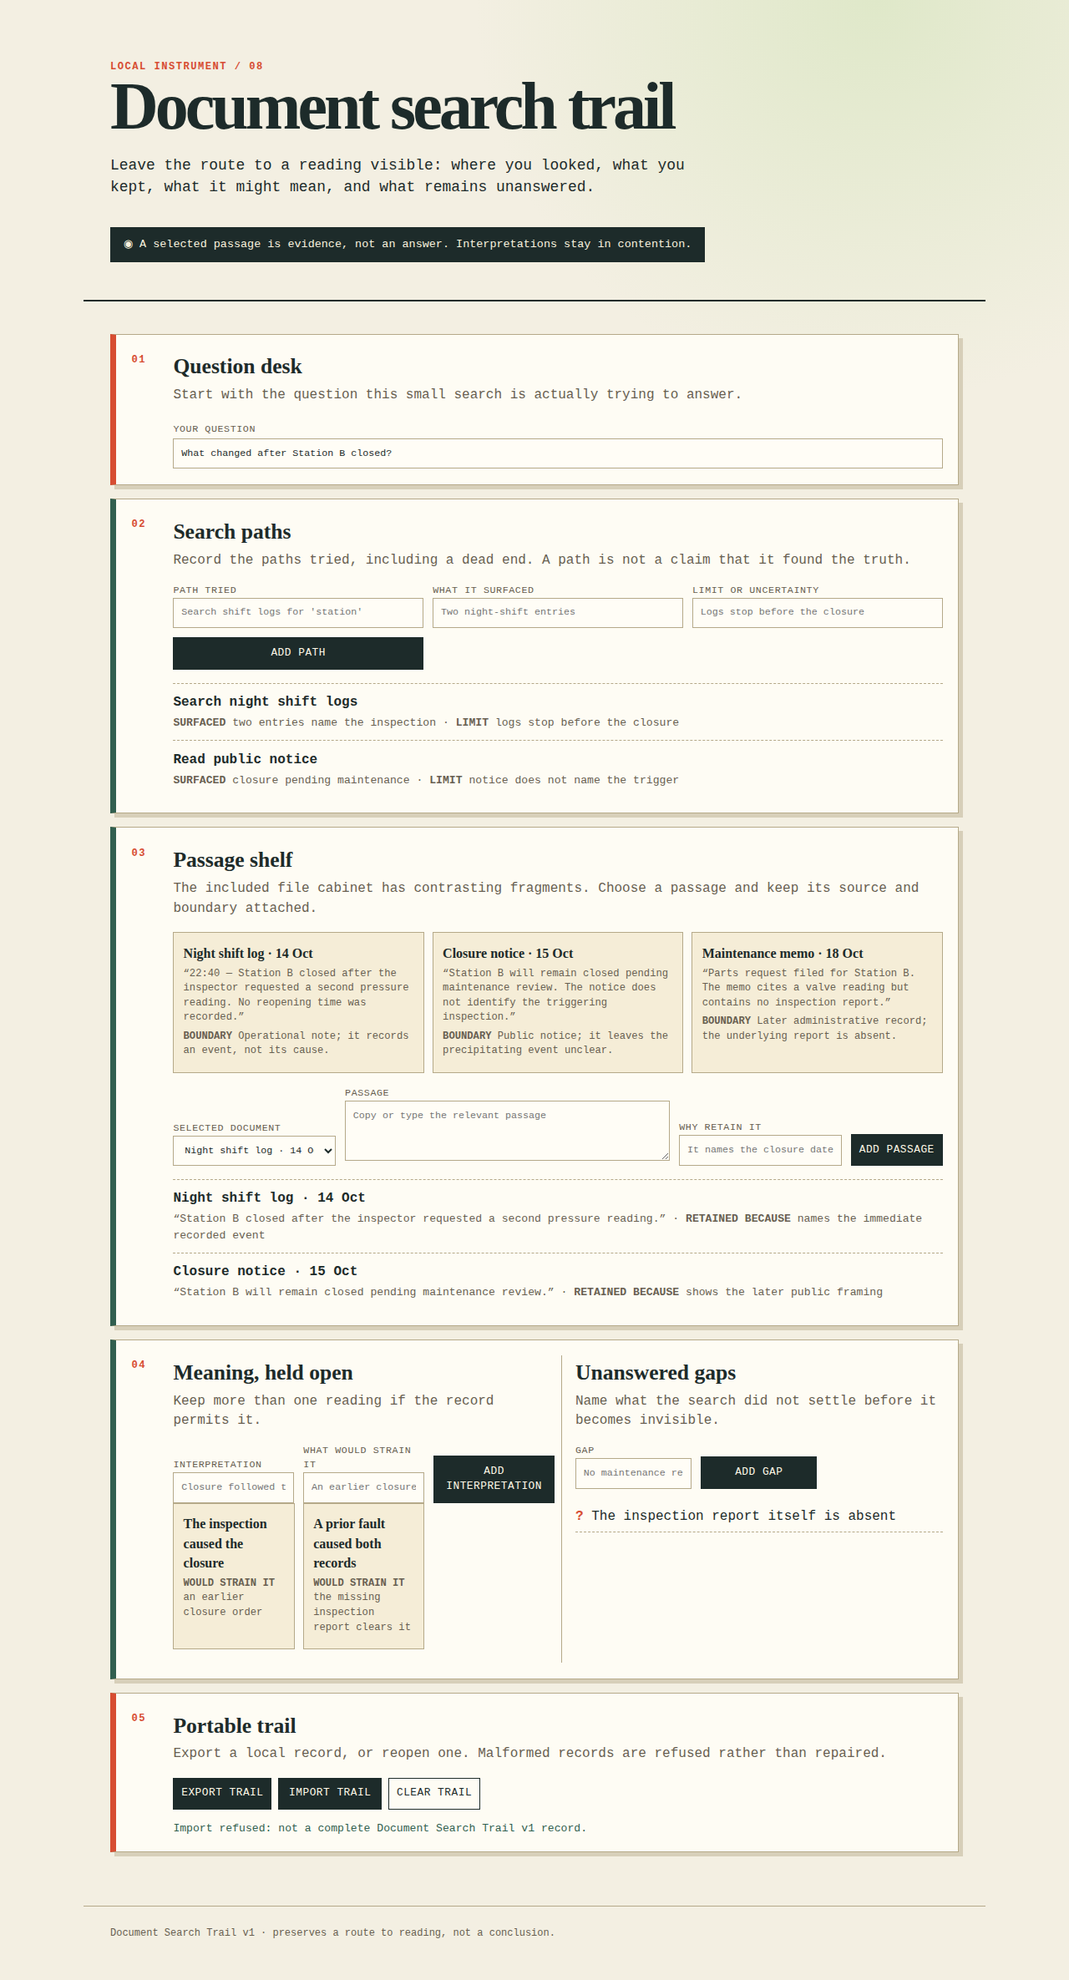
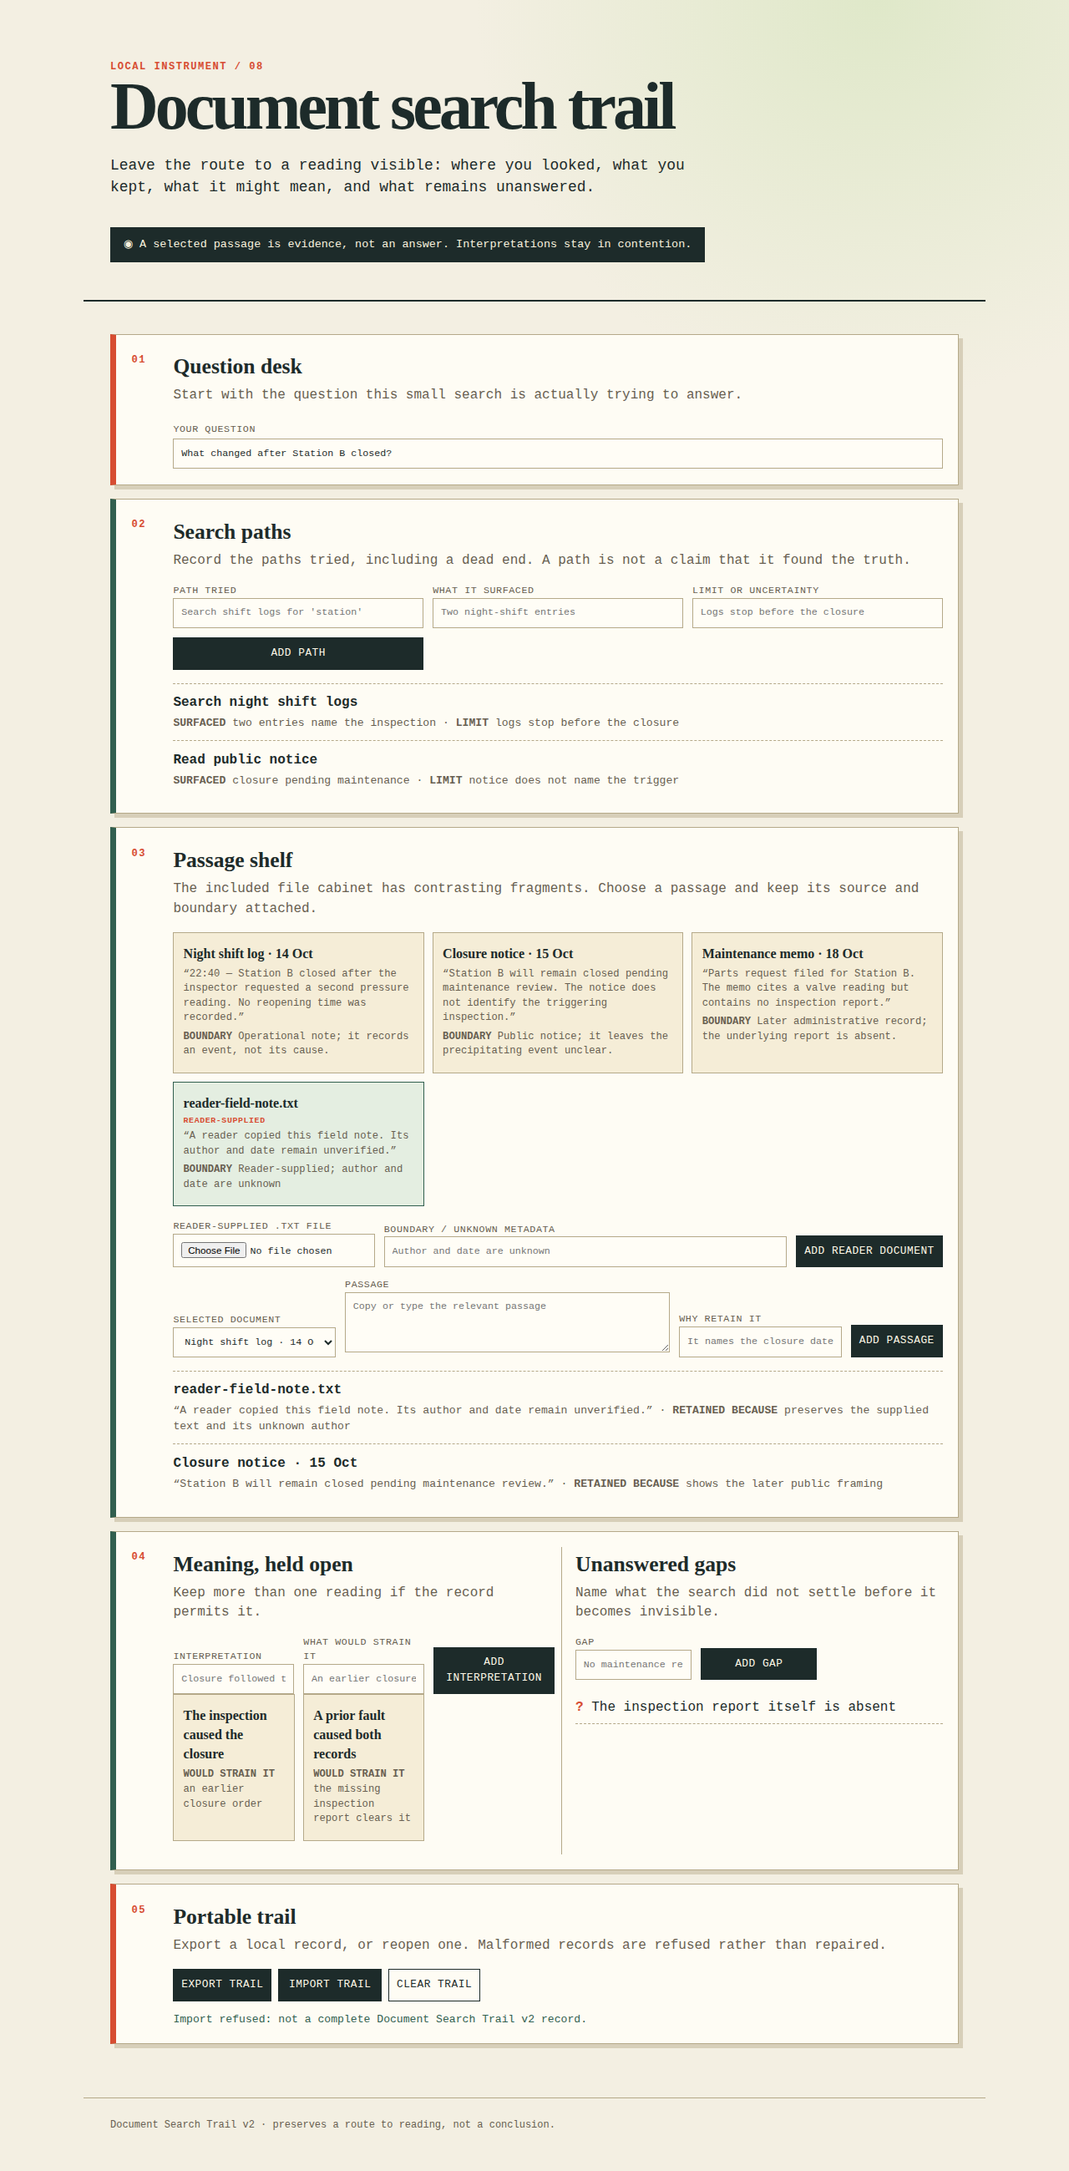
Support reader-supplied search documents

Changed region(s): [[0.0938, 0.0312, 0.9062, 0.9987]]

diff --git a/document-search-trail/app.js b/document-search-trail/app.js
@@ -1,6 +1,6 @@
-const docs=[{id:'shift-log',title:'Night shift log · 14 Oct',text:'22:40 — Station B closed after the inspector requested a second pressure reading. No reopening time was recorded.',note:'Operational note; it records an event, not its cause.'},{id:'notice',title:'Closure notice · 15 Oct',text:'Station B will remain closed pending maintenance review. The notice does not identify the triggering inspection.',note:'Public notice; it leaves the precipitating event unclear.'},{id:'memo',title:'Maintenance memo · 18 Oct',text:'Parts request filed for Station B. The memo cites a valve reading but contains no inspection report.',note:'Later administrative record; the underlying report is absent.'}];
-const state={question:'',paths:[],passages:[],interpretations:[],gaps:[]};const $=s=>document.querySelector(s);const esc=x=>String(x).replace(/[&<>'"]/g,c=>({'&':'&amp;','<':'&lt;','>':'&gt;',"'":'&#39;','"':'&quot;'}[c]));const val=id=>$(id).value.trim();
-function render(){ $('#question').value=state.question;$('#documents').innerHTML=docs.map(d=>`<article class="document"><h3>${esc(d.title)}</h3><p>“${esc(d.text)}”</p><p><b>BOUNDARY</b> ${esc(d.note)}</p></article>`).join('');$('#passage-doc').innerHTML=docs.map(d=>`<option value="${d.id}">${esc(d.title)}</option>`).join('');$('#paths').innerHTML=state.paths.map(x=>`<li><span class="record-title">${esc(x.name)}</span><div class="record-detail"><b>SURFACED</b> ${esc(x.result)} · <b>LIMIT</b> ${esc(x.limit)}</div></li>`).join('');$('#passages').innerHTML=state.passages.map(x=>`<li><span class="record-title">${esc(docs.find(d=>d.id===x.doc)?.title||x.doc)}</span><div class="record-detail">“${esc(x.text)}” · <b>RETAINED BECAUSE</b> ${esc(x.note)}</div></li>`).join('');$('#interpretations').innerHTML=state.interpretations.map(x=>`<article><h3>${esc(x.reading)}</h3><p><b>WOULD STRAIN IT</b><br>${esc(x.strain)}</p></article>`).join('');$('#gaps').innerHTML=state.gaps.map(x=>`<li>${esc(x)}</li>`).join('');}
-function submit(form,fn){$(form).addEventListener('submit',e=>{e.preventDefault();fn();e.target.reset();render();$('#status').textContent='Recorded locally; no conclusion was selected.'})}$('#question').addEventListener('input',e=>state.question=e.target.value);submit('#path-form',()=>state.paths.push({name:val('#path-name'),result:val('#path-result'),limit:val('#path-limit')}));submit('#passage-form',()=>state.passages.push({doc:val('#passage-doc'),text:val('#passage-text'),note:val('#passage-note')}));submit('#interpretation-form',()=>state.interpretations.push({reading:val('#interpretation'),strain:val('#strain')}));submit('#gap-form',()=>state.gaps.push(val('#gap')));
-function valid(r){return r&&r.format==='document-search-trail/v1'&&typeof r.question==='string'&&['paths','passages','interpretations','gaps'].every(k=>Array.isArray(r[k]))&&r.paths.every(x=>typeof x.name==='string'&&typeof x.result==='string'&&typeof x.limit==='string')&&r.passages.every(x=>docs.some(d=>d.id===x.doc)&&typeof x.text==='string'&&typeof x.note==='string')&&r.interpretations.every(x=>typeof x.reading==='string'&&typeof x.strain==='string')&&r.gaps.every(x=>typeof x==='string')}
-$('#export').onclick=()=>{state.question=val('#question');const data={format:'document-search-trail/v1',exportedAt:new Date().toISOString(),boundary:'A selected passage is evidence, not an answer. Interpretations stay in contention.',...state};const a=Object.assign(document.createElement('a'),{href:URL.createObjectURL(new Blob([JSON.stringify(data,null,2)],{type:'application/json'})),download:'document-search-trail.json'});a.click();URL.revokeObjectURL(a.href);$('#status').textContent='Trail exported as a portable local JSON record.'};$('#import').onchange=async e=>{try{const r=JSON.parse(await e.target.files[0].text());if(!valid(r))throw Error('not a complete Document Search Trail v1 record');Object.assign(state,r);render();$('#status').textContent='Trail reopened; passages, uncertainty, and gaps remain distinct.'}catch(err){$('#status').textContent=`Import refused: ${err.message}.`}finally{e.target.value=''}};$('#reset').onclick=()=>{Object.assign(state,{question:'',paths:[],passages:[],interpretations:[],gaps:[]});render();$('#status').textContent='Trail cleared locally.'};render();
+const fixtures=[{id:'shift-log',title:'Night shift log · 14 Oct',text:'22:40 — Station B closed after the inspector requested a second pressure reading. No reopening time was recorded.',note:'Operational note; it records an event, not its cause.'},{id:'notice',title:'Closure notice · 15 Oct',text:'Station B will remain closed pending maintenance review. The notice does not identify the triggering inspection.',note:'Public notice; it leaves the precipitating event unclear.'},{id:'memo',title:'Maintenance memo · 18 Oct',text:'Parts request filed for Station B. The memo cites a valve reading but contains no inspection report.',note:'Later administrative record; the underlying report is absent.'}];
+const state={question:'',documents:[],paths:[],passages:[],interpretations:[],gaps:[]};const $=s=>document.querySelector(s),esc=x=>String(x).replace(/[&<>'"]/g,c=>({'&':'&amp;','<':'&lt;','>':'&gt;',"'":'&#39;','"':'&quot;'}[c])),val=id=>$(id).value.trim(),docs=()=>[...fixtures,...state.documents];
+function render(){ $('#question').value=state.question;$('#documents').innerHTML=docs().map(d=>`<article class="document ${d.supplied?'supplied':''}"><h3>${esc(d.title)}${d.supplied?' <small>READER-SUPPLIED</small>':''}</h3><p>“${esc(d.text)}”</p><p><b>BOUNDARY</b> ${esc(d.note)}</p></article>`).join('');$('#passage-doc').innerHTML=docs().map(d=>`<option value="${d.id}">${esc(d.title)}${d.supplied?' · reader-supplied':''}</option>`).join('');$('#paths').innerHTML=state.paths.map(x=>`<li><span class="record-title">${esc(x.name)}</span><div class="record-detail"><b>SURFACED</b> ${esc(x.result)} · <b>LIMIT</b> ${esc(x.limit)}</div></li>`).join('');$('#passages').innerHTML=state.passages.map(x=>`<li><span class="record-title">${esc(docs().find(d=>d.id===x.doc)?.title||x.doc)}</span><div class="record-detail">“${esc(x.text)}” · <b>RETAINED BECAUSE</b> ${esc(x.note)}</div></li>`).join('');$('#interpretations').innerHTML=state.interpretations.map(x=>`<article><h3>${esc(x.reading)}</h3><p><b>WOULD STRAIN IT</b><br>${esc(x.strain)}</p></article>`).join('');$('#gaps').innerHTML=state.gaps.map(x=>`<li>${esc(x)}</li>`).join('');}
+function submit(form,fn){$(form).addEventListener('submit',async e=>{e.preventDefault();try{await fn();e.target.reset();render();$('#status').textContent='Recorded locally; no conclusion was selected.'}catch(err){$('#status').textContent=`Document not added: ${err.message}.`}})}$('#question').addEventListener('input',e=>state.question=e.target.value);submit('#path-form',()=>state.paths.push({name:val('#path-name'),result:val('#path-result'),limit:val('#path-limit')}));submit('#passage-form',()=>state.passages.push({doc:val('#passage-doc'),text:val('#passage-text'),note:val('#passage-note')}));submit('#interpretation-form',()=>state.interpretations.push({reading:val('#interpretation'),strain:val('#strain')}));submit('#gap-form',()=>state.gaps.push(val('#gap')));submit('#document-form',async()=>{const f=$('#document-file').files[0];if(!f||(!f.type.startsWith('text/')&&!/\.txt$/i.test(f.name)))throw Error('choose a plain-text .txt file');const text=await f.text();if(!text.trim())throw Error('the supplied file is empty');state.documents.push({id:`reader-${crypto.randomUUID()}`,title:f.name,text,note:val('#document-boundary'),supplied:true})});
+function valid(r){return r&&r.format==='document-search-trail/v2'&&typeof r.question==='string'&&['documents','paths','passages','interpretations','gaps'].every(k=>Array.isArray(r[k]))&&r.documents.every(x=>typeof x.id==='string'&&typeof x.title==='string'&&typeof x.text==='string'&&typeof x.note==='string'&&x.supplied===true)&&r.paths.every(x=>typeof x.name==='string'&&typeof x.result==='string'&&typeof x.limit==='string')&&r.passages.every(x=>typeof x.doc==='string'&&typeof x.text==='string'&&typeof x.note==='string'&&(docs().some(d=>d.id===x.doc)||r.documents.some(d=>d.id===x.doc)))&&r.interpretations.every(x=>typeof x.reading==='string'&&typeof x.strain==='string')&&r.gaps.every(x=>typeof x==='string')}
+$('#export').onclick=()=>{state.question=val('#question');const data={format:'document-search-trail/v2',exportedAt:new Date().toISOString(),boundary:'A selected passage is evidence, not an answer. Interpretations stay in contention.',...state};const a=Object.assign(document.createElement('a'),{href:URL.createObjectURL(new Blob([JSON.stringify(data,null,2)],{type:'application/json'})),download:'document-search-trail.json'});a.click();URL.revokeObjectURL(a.href);$('#status').textContent='Trail exported as a portable local JSON record.'};$('#import').onchange=async e=>{try{const r=JSON.parse(await e.target.files[0].text());if(!valid(r))throw Error('not a complete Document Search Trail v2 record');Object.assign(state,r);render();$('#status').textContent='Trail reopened; supplied documents, passages, uncertainty, and gaps remain distinct.'}catch(err){$('#status').textContent=`Import refused: ${err.message}.`}finally{e.target.value=''}};$('#reset').onclick=()=>{Object.assign(state,{question:'',documents:[],paths:[],passages:[],interpretations:[],gaps:[]});render();$('#status').textContent='Trail cleared locally.'};render();

diff --git a/document-search-trail/style.css b/document-search-trail/style.css
@@ -1,1 +1,1 @@
-:root{--ink:#1d2b2a;--paper:#f3efe2;--panel:#fffdf5;--line:#b5a989;--acid:#d74d32;--moss:#315f4f;--muted:#685f51}*{box-sizing:border-box}body{margin:0;background:radial-gradient(circle at 82% 0,#dfe8c9,transparent 30rem),var(--paper);color:var(--ink);font:16px/1.45 ui-monospace,SFMono-Regular,Consolas,monospace}header,main,footer{max-width:1080px;margin:auto}header{padding:4.5rem 2rem 2rem;border-bottom:2px solid var(--ink)}.eyebrow,.step{color:var(--acid);font-size:.76rem;font-weight:bold;letter-spacing:.12em}.eyebrow{margin:0}.step{display:block;padding-top:.25rem}h1,h2,h3{font-family:Georgia,serif;margin:.1rem 0;color:var(--ink)}h1{font-size:clamp(2.8rem,7vw,5rem);line-height:.92;letter-spacing:-.05em}.lede{max-width:690px;font-size:1.12rem;margin:1.3rem 0}.boundary{background:var(--ink);color:#f8f2df;padding:.7rem 1rem;display:inline-block;font-size:.84rem}main{padding:1.4rem 2rem 3rem}.panel{background:color-mix(in srgb,var(--panel) 92%,transparent);border:1px solid var(--line);border-left:7px solid var(--moss);margin:1rem 0;padding:1.15rem;display:grid;grid-template-columns:42px 1fr;gap:.5rem;box-shadow:5px 5px 0 #d7cfb9}.question{border-left-color:var(--acid)}h2{font-size:1.6rem}.panel p{margin:.3rem 0 1rem;color:var(--muted)}.form{display:grid;grid-template-columns:repeat(3,minmax(0,1fr));gap:.7rem;align-items:end}label{font-size:.73rem;text-transform:uppercase;letter-spacing:.05em;color:var(--muted)}input,textarea,select,button{width:100%;border:1px solid var(--line);font:inherit;color:var(--ink);background:#fffdf6;padding:.55rem}textarea{min-height:4.5rem;resize:vertical}button,.import{cursor:pointer;background:var(--ink);color:#fff8e7;border-color:var(--ink);font-size:.8rem;text-transform:uppercase;letter-spacing:.04em}.import{display:inline-block;padding:.58rem .8rem}.import input{display:none}.quiet{background:transparent;color:var(--ink)}.records,.gaps{padding:0;margin:1rem 0 0;list-style:none}.records li{border-top:1px dashed var(--line);padding:.7rem 0}.record-title{display:block;font-weight:bold}.record-detail{color:var(--muted);font-size:.82rem;margin-top:.2rem}.documents,.cards{display:grid;grid-template-columns:repeat(3,1fr);gap:.65rem;margin-bottom:1rem}.document,.cards article{padding:.7rem;border:1px solid var(--line);background:#f5edd7;font-size:.78rem}.document h3,.cards h3{font-size:1rem}.document p,.cards p{font-size:.76rem!important;margin:.3rem 0!important}.split{grid-template-columns:42px 1fr 1fr}.split>div+div{border-left:1px solid var(--line);padding-left:1rem}.compact{grid-template-columns:1fr 2fr 1fr auto}.gaps li{padding:.38rem 0;border-bottom:1px dashed var(--line)}.gaps li:before{content:'? ';color:var(--acid);font-weight:bold}.actions{border-left-color:var(--acid)}.buttons{display:flex;gap:.5rem;flex-wrap:wrap}.buttons button{width:auto}output{display:block;margin-top:.8rem;color:var(--moss);font-size:.82rem}footer{border-top:1px solid var(--line);padding:1.5rem 2rem 3rem;font-size:.75rem;color:var(--muted)}@media(max-width:700px){header,main{padding-left:1rem;padding-right:1rem}.form,.compact,.split{grid-template-columns:1fr}.split>div+div{border-left:0;border-top:1px solid var(--line);padding:1rem 0 0}.documents,.cards{grid-template-columns:1fr}.panel{grid-template-columns:28px 1fr}h1{font-size:3rem}}
+:root{--ink:#1d2b2a;--paper:#f3efe2;--panel:#fffdf5;--line:#b5a989;--acid:#d74d32;--moss:#315f4f;--muted:#685f51}*{box-sizing:border-box}body{margin:0;background:radial-gradient(circle at 82% 0,#dfe8c9,transparent 30rem),var(--paper);color:var(--ink);font:16px/1.45 ui-monospace,SFMono-Regular,Consolas,monospace}header,main,footer{max-width:1080px;margin:auto}header{padding:4.5rem 2rem 2rem;border-bottom:2px solid var(--ink)}.eyebrow,.step{color:var(--acid);font-size:.76rem;font-weight:bold;letter-spacing:.12em}.eyebrow{margin:0}.step{display:block;padding-top:.25rem}h1,h2,h3{font-family:Georgia,serif;margin:.1rem 0;color:var(--ink)}h1{font-size:clamp(2.8rem,7vw,5rem);line-height:.92;letter-spacing:-.05em}.lede{max-width:690px;font-size:1.12rem;margin:1.3rem 0}.boundary{background:var(--ink);color:#f8f2df;padding:.7rem 1rem;display:inline-block;font-size:.84rem}main{padding:1.4rem 2rem 3rem}.panel{background:color-mix(in srgb,var(--panel) 92%,transparent);border:1px solid var(--line);border-left:7px solid var(--moss);margin:1rem 0;padding:1.15rem;display:grid;grid-template-columns:42px 1fr;gap:.5rem;box-shadow:5px 5px 0 #d7cfb9}.question{border-left-color:var(--acid)}h2{font-size:1.6rem}.panel p{margin:.3rem 0 1rem;color:var(--muted)}.form{display:grid;grid-template-columns:repeat(3,minmax(0,1fr));gap:.7rem;align-items:end}label{font-size:.73rem;text-transform:uppercase;letter-spacing:.05em;color:var(--muted)}input,textarea,select,button{width:100%;border:1px solid var(--line);font:inherit;color:var(--ink);background:#fffdf6;padding:.55rem}textarea{min-height:4.5rem;resize:vertical}button,.import{cursor:pointer;background:var(--ink);color:#fff8e7;border-color:var(--ink);font-size:.8rem;text-transform:uppercase;letter-spacing:.04em}.import{display:inline-block;padding:.58rem .8rem}.import input{display:none}.quiet{background:transparent;color:var(--ink)}.records,.gaps{padding:0;margin:1rem 0 0;list-style:none}.records li{border-top:1px dashed var(--line);padding:.7rem 0}.record-title{display:block;font-weight:bold}.record-detail{color:var(--muted);font-size:.82rem;margin-top:.2rem}.documents,.cards{display:grid;grid-template-columns:repeat(3,1fr);gap:.65rem;margin-bottom:1rem}.document,.cards article{padding:.7rem;border:1px solid var(--line);background:#f5edd7;font-size:.78rem}.document h3,.cards h3{font-size:1rem}.document small{display:block;color:var(--acid);font:700 .62rem ui-monospace,monospace;letter-spacing:.06em;margin-top:.25rem}.document.supplied{background:#e4eee1;border-color:var(--moss)}.reader-doc{grid-template-columns:1fr 2fr auto;margin:0 0 .8rem}.document p,.cards p{font-size:.76rem!important;margin:.3rem 0!important}.split{grid-template-columns:42px 1fr 1fr}.split>div+div{border-left:1px solid var(--line);padding-left:1rem}.compact{grid-template-columns:1fr 2fr 1fr auto}.gaps li{padding:.38rem 0;border-bottom:1px dashed var(--line)}.gaps li:before{content:'? ';color:var(--acid);font-weight:bold}.actions{border-left-color:var(--acid)}.buttons{display:flex;gap:.5rem;flex-wrap:wrap}.buttons button{width:auto}output{display:block;margin-top:.8rem;color:var(--moss);font-size:.82rem}footer{border-top:1px solid var(--line);padding:1.5rem 2rem 3rem;font-size:.75rem;color:var(--muted)}@media(max-width:700px){header,main{padding-left:1rem;padding-right:1rem}.form,.compact,.split{grid-template-columns:1fr}.split>div+div{border-left:0;border-top:1px solid var(--line);padding:1rem 0 0}.documents,.cards{grid-template-columns:1fr}.panel{grid-template-columns:28px 1fr}h1{font-size:3rem}}

diff --git a/document-search-trail/index.html b/document-search-trail/index.html
@@ -6,7 +6,7 @@
 <main>
 <section class="panel question"><span class="step">01</span><div><h2>Question desk</h2><p>Start with the question this small search is actually trying to answer.</p><label>Your question <input id="question" placeholder="What changed after the station closed?" aria-label="Your question"></label></div></section>
 <section class="panel"><span class="step">02</span><div><h2>Search paths</h2><p>Record the paths tried, including a dead end. A path is not a claim that it found the truth.</p><form id="path-form" class="form"><label>Path tried <input id="path-name" required placeholder="Search shift logs for 'station'"></label><label>What it surfaced <input id="path-result" required placeholder="Two night-shift entries"></label><label>Limit or uncertainty <input id="path-limit" required placeholder="Logs stop before the closure"></label><button>Add path</button></form><ol id="paths" class="records"></ol></div></section>
-<section class="panel"><span class="step">03</span><div><h2>Passage shelf</h2><p>The included file cabinet has contrasting fragments. Choose a passage and keep its source and boundary attached.</p><div id="documents" class="documents"></div><form id="passage-form" class="form compact"><label>Selected document <select id="passage-doc"></select></label><label>Passage <textarea id="passage-text" required placeholder="Copy or type the relevant passage"></textarea></label><label>Why retain it <input id="passage-note" required placeholder="It names the closure date"></label><button>Add passage</button></form><ol id="passages" class="records passages"></ol></div></section>
+<section class="panel"><span class="step">03</span><div><h2>Passage shelf</h2><p>The included file cabinet has contrasting fragments. Choose a passage and keep its source and boundary attached.</p><div id="documents" class="documents"></div><form id="document-form" class="form reader-doc"><label>Reader-supplied .txt file <input id="document-file" type="file" accept="text/plain,.txt" required></label><label>Boundary / unknown metadata <input id="document-boundary" required placeholder="Author and date are unknown"></label><button>Add reader document</button></form><form id="passage-form" class="form compact"><label>Selected document <select id="passage-doc"></select></label><label>Passage <textarea id="passage-text" required placeholder="Copy or type the relevant passage"></textarea></label><label>Why retain it <input id="passage-note" required placeholder="It names the closure date"></label><button>Add passage</button></form><ol id="passages" class="records passages"></ol></div></section>
 <section class="panel split"><span class="step">04</span><div><h2>Meaning, held open</h2><p>Keep more than one reading if the record permits it.</p><form id="interpretation-form" class="form"><label>Interpretation <input id="interpretation" required placeholder="Closure followed the safety inspection"></label><label>What would strain it <input id="strain" required placeholder="An earlier closure notice"></label><button>Add interpretation</button></form><div id="interpretations" class="cards"></div></div><div><h2>Unanswered gaps</h2><p>Name what the search did not settle before it becomes invisible.</p><form id="gap-form" class="form"><label>Gap <input id="gap" required placeholder="No maintenance record after closure"></label><button>Add gap</button></form><ul id="gaps" class="gaps"></ul></div></section>
 <section class="panel actions"><span class="step">05</span><div><h2>Portable trail</h2><p>Export a local record, or reopen one. Malformed records are refused rather than repaired.</p><div class="buttons"><button id="export" type="button">Export trail</button><label class="import">Import trail<input id="import" type="file" accept="application/json"></label><button id="reset" class="quiet" type="button">Clear trail</button></div><output id="status" aria-live="polite"></output></div></section>
-</main><footer>Document Search Trail v1 · preserves a route to reading, not a conclusion.</footer><script src="app.js"></script></body></html>
+</main><footer>Document Search Trail v2 · preserves a route to reading, not a conclusion.</footer><script src="app.js"></script></body></html>
